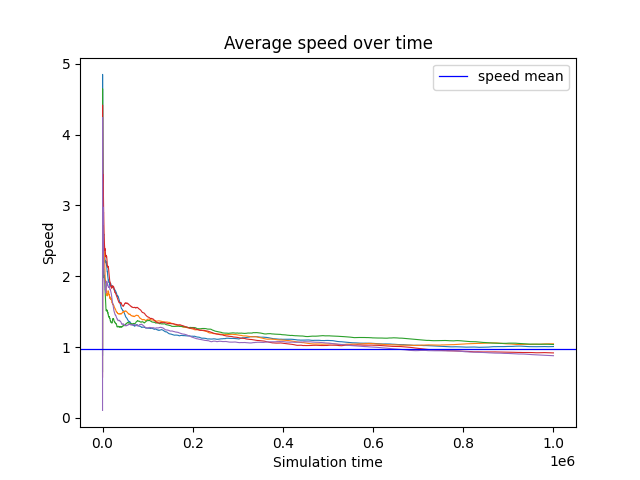
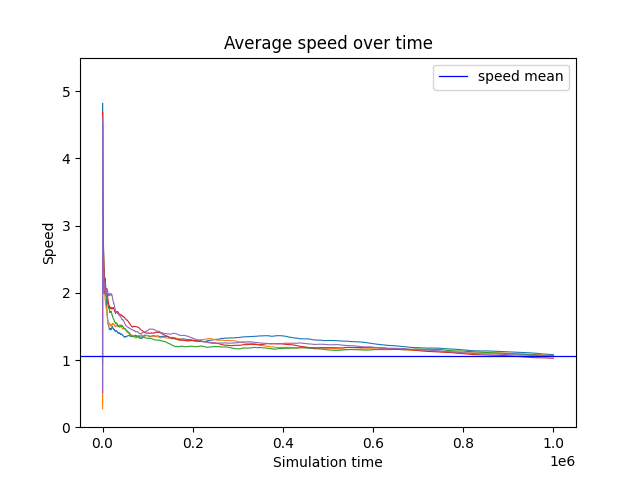
Final 1

diff --git a/A4/simulation_RWMM.py b/A4/simulation_RWMM.py
@@ -5,9 +5,7 @@ import math
 import os
 import pandas as pd
 import numpy as np
-from queue import Queue
 from event import *
-from batch_means import compute_batch_means_statistics
 from plotting import *
 
 
@@ -95,11 +93,16 @@ def simulation(sim_time, num_nodes, v_min, v_max, interval):
                 nodes_speed = [random.uniform(v_min,v_max) for n in range(num_nodes)]
                 nodes_current_pos = [0 for n in range(num_nodes)]
                 nodes_bearing = [0 for n in range(num_nodes)]
-                nodes_time_last_reached = [0 for n in range(num_nodes)]
+                for row in range(num_nodes):    
+                    a = []
+                    # A for loop for column entries
+                    for column in range(num_nodes):   
+                        a.append(0)
+                    nodes_time_last_reached.append(a)
+                #nodes_time_last_reached = [0 for n in range(num_nodes)][0 for n in range(num_nodes)]
 
                 for n in range(num_nodes):
                     arrival_time = np.linalg.norm(np.array(nodes_next_pos[n]) - np.array(nodes_pos[n])) / nodes_speed[n]
-                    #arrival_time = time_calculation(nodes_next_pos[n], nodes_pos[n], nodes_speed[n])
                     my_queue.queue.put((system_time + arrival_time, (Event(EventType.reached, system_time + arrival_time, n))))
                     log_events.append({'id': n, 'time_last_way': system_time, 'current point': nodes_pos[n], 'next point': nodes_next_pos[n], 'speed': nodes_speed[n]})
 
@@ -133,18 +136,17 @@ def simulation(sim_time, num_nodes, v_min, v_max, interval):
                 for n in range(num_nodes):
                     nodes_bearing[n] = get_bearing(nodes_pos[n][0], nodes_pos[n][1], nodes_next_pos[n][0], nodes_next_pos[n][1])
                     nodes_current_pos[n] = (nodes_pos[n][0] + nodes_speed[n]*math.cos(nodes_bearing[n]), nodes_pos[n][1] + nodes_speed[n]*math.sin(nodes_bearing[n]))
-                    nodes_time_last_reached[n] -= 1
                 for n in range(num_nodes):
                     for m in range(num_nodes):
                         if n != m:
+                            nodes_time_last_reached[n][m] -= 1
                             dx = calculate_dist(nodes_current_pos[n], nodes_current_pos[m])
-                            #print("trasmission",dx)
-                            if dx<=50 and nodes_time_last_reached[n]<0:
+                            if dx<=50 and nodes_time_last_reached[n][m]<0:
                                 #print(f"communaction {n} to {m}, distance {dx}")
                                 logging.info(f"COMMUNICATION: Node {n} to Node {m}, distance {dx}")
                                 byte = trasmitted_byte()
                                 trasmission.append({'id': n, 'to': m, 'Byte': byte})
-                                nodes_time_last_reached[n] = 10
+                                nodes_time_last_reached[n][m] = 10
                 
 
             case EventType.stop:
@@ -174,15 +176,15 @@ def simulation(sim_time, num_nodes, v_min, v_max, interval):
 
 
 num_nodes = 20
-sim_time = 5000
-interval = 5
+sim_time = 250000
+interval = 80000
 
 all_speeds = []
 all_log_events = []
 all_trasmission = []
 # VELOCITY 0-10
 for j in range(0,5):
-    speeds, log_events, trasmission = simulation(sim_time, num_nodes, 0, 10, interval)
+    speeds, log_events, trasmission = simulation(sim_time, num_nodes, 3,15, interval)
     all_speeds.append(speeds)
     all_log_events.append(log_events)
     all_trasmission.append(trasmission)
@@ -190,57 +192,48 @@ for j in range(0,5):
 
 plots = Plotting(sim_time, speeds)
 
-# speeds_mean = speeds.groupby(['time']).mean()
-# speeds_mean.reset_index()
-# print(speeds_mean)
-# node_speed_mean = speeds.groupby(['id']).mean()
+speeds_mean = speeds.groupby(['time']).mean()
+print(speeds_mean)
+node_speed_mean = speeds.groupby(['id']).mean()
+print(node_speed_mean)
 total_mean = [speeds.mean() for speeds in all_speeds]
-# print(node_speed_mean)
-# print(speeds[:2])
-# print(speeds['time'])
 
 [print("Total Mean:", total['speed']) for total in total_mean]
 
 media = [total['speed'] for total in total_mean]
-# media.mean()
-# for l in range(0,5):
-#     media += l["speed"]
 print("FINAL MEAN:", sum(media)/5)
 
 
-# fig, ax = plt.subplots()
+fig, ax = plt.subplots()
 
-# for speeds in all_speeds:
-#     avg_history=[]
-#     times = []
-#     tot_speed = 0
-#     ref_time=0
-#     for x, y in zip(speeds["time"],speeds["speed"]): 
-#         tot_speed += y
-#         time = x
-#         if time != ref_time:
-#             avg_history.append(tot_speed/(time*num_nodes*(1/interval)))
-#             times.append(time)
-#         ref_time= x
-#     plt.plot(times, avg_history, lw=0.8)
-# ax.axhline(sum(total['speed'] for total in total_mean)/5, label="speed mean", color="b", lw=0.9)
-# ax.set_title("Average speed over time")
-# ax.set_ylabel('Speed')
-# ax.set_xlabel("Simulation time")
-# ax.legend()  
-# ax.set_ylim(0, 5.5)
+for speeds in all_speeds:
+    avg_history=[]
+    times = []
+    tot_speed = 0
+    ref_time=0
+    for x, y in zip(speeds["time"],speeds["speed"]): 
+        tot_speed += y
+        time = x
+        if time != ref_time:
+            avg_history.append(tot_speed/(time*num_nodes*(1/interval)))
+            times.append(time)
+        ref_time= x
+    plt.plot(times, avg_history, lw=0.8)
+ax.axhline(sum(total['speed'] for total in total_mean)/5, label="speed mean", color="b", lw=0.9)
+ax.set_title("Average speed over time")
+ax.set_ylabel('Speed')
+ax.set_xlabel("Simulation time")
+ax.legend()  
+ax.set_ylim(0, 5.5)
 
 
 trasmission_rate = trasmission.groupby(['id']).sum()
 print(trasmission_rate)
 
 
+print("mean of byte trasmitted", trasmission_rate.mean()['Byte'])
+print("mean in time", trasmission_rate.sum()["Byte"]/sim_time)
 
-# total_trasmission=0
-# for t in all_trasmission:
-#     total_trasmission += t['Byte']
-
-print("TR in time: ", trasmission_rate.mean()['Byte'])
-
+plt.scatter(range(0,20), trasmission_rate["Byte"])
 
 plt.show()

diff --git a/A4/plotting.py b/A4/plotting.py
@@ -7,7 +7,7 @@ from enum import Enum
 from statsmodels.graphics.tsaplots import plot_acf
 
 class Statistics(Enum):
-    PACKET_IN_SYSTEM = 0
+    NODES_SPEED = 0
 
 
 class Plotting:
